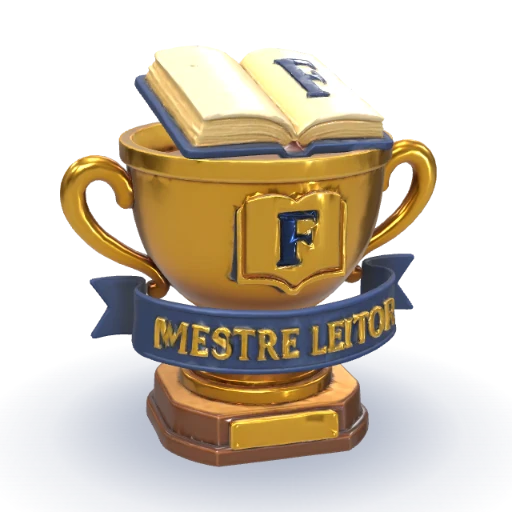
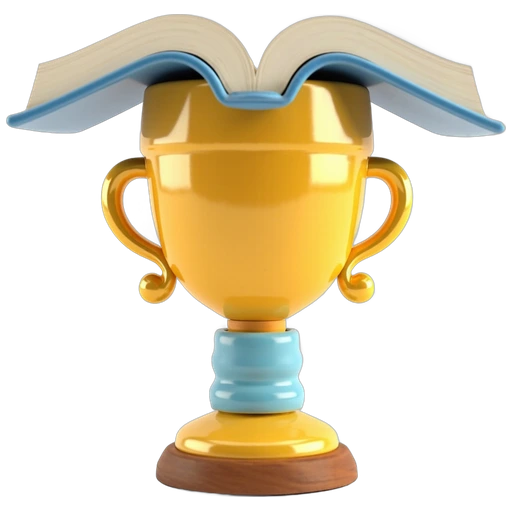
Telas: troféu sem "MESTRE LEITOR" (arte nova sem texto; o troféu ganho abre o selo em 360° até haver um 3D sem texto), Corre-Som com câmera mais perto no celular (letras maiores, pistas mais largas), Espelho do Som com as duas vistas acima do rodapé no celular
Claude-Session: https://claude.ai/code/session_01XFnar5EqvbkeuXqeMQuF5Q

diff --git a/app/web/src/componentes/recompensas.tsx b/app/web/src/componentes/recompensas.tsx
@@ -243,10 +243,9 @@ export function SeloAmpliado({ conquista, ganha, letra, bloqueado = false, aoFec
   const [tam] = useState(tamanhoGrande);
   const mist = bloqueado && conquista.visivel_antes === 'misterio';
   const nivel = ganha && NOME_NIVEL[ganha.nivel];
-  // troféu conquistado: abre o TROFÉU 3D de verdade (o selo continua sendo a miniatura do Álbum)
-  const objeto = conquista.tipo === 'trofeu' && !bloqueado
-    ? <Modelo3D qual="trofeu" tamanho={tam} />
-    : <SeloGirando conquista={conquista} ganha={ganha} letra={letra} bloqueado={bloqueado} tamanho={tam} modo="auto" />;
+  // revisão 18/11 (item 23): o troféu 3D antigo tem "MESTRE LEITOR" em relevo (D022 pede nomes neutros, sem "Mestre"); até haver
+  // um troféu 3D sem texto (Área do administrador › Foto → 3D, com a arte nova modelos3d/trofeu.webp), o troféu abre o selo em 360°
+  const objeto = <SeloGirando conquista={conquista} ganha={ganha} letra={letra} bloqueado={bloqueado} tamanho={tam} modo="auto" />;
   return (
     <Ampliado rotulo={mist ? 'Mistério' : conquista.nome} objeto={objeto} aoFechar={aoFechar}>
       <h2 className="t">{mist ? 'Mistério' : semFonetica(conquista.nome)}</h2>
